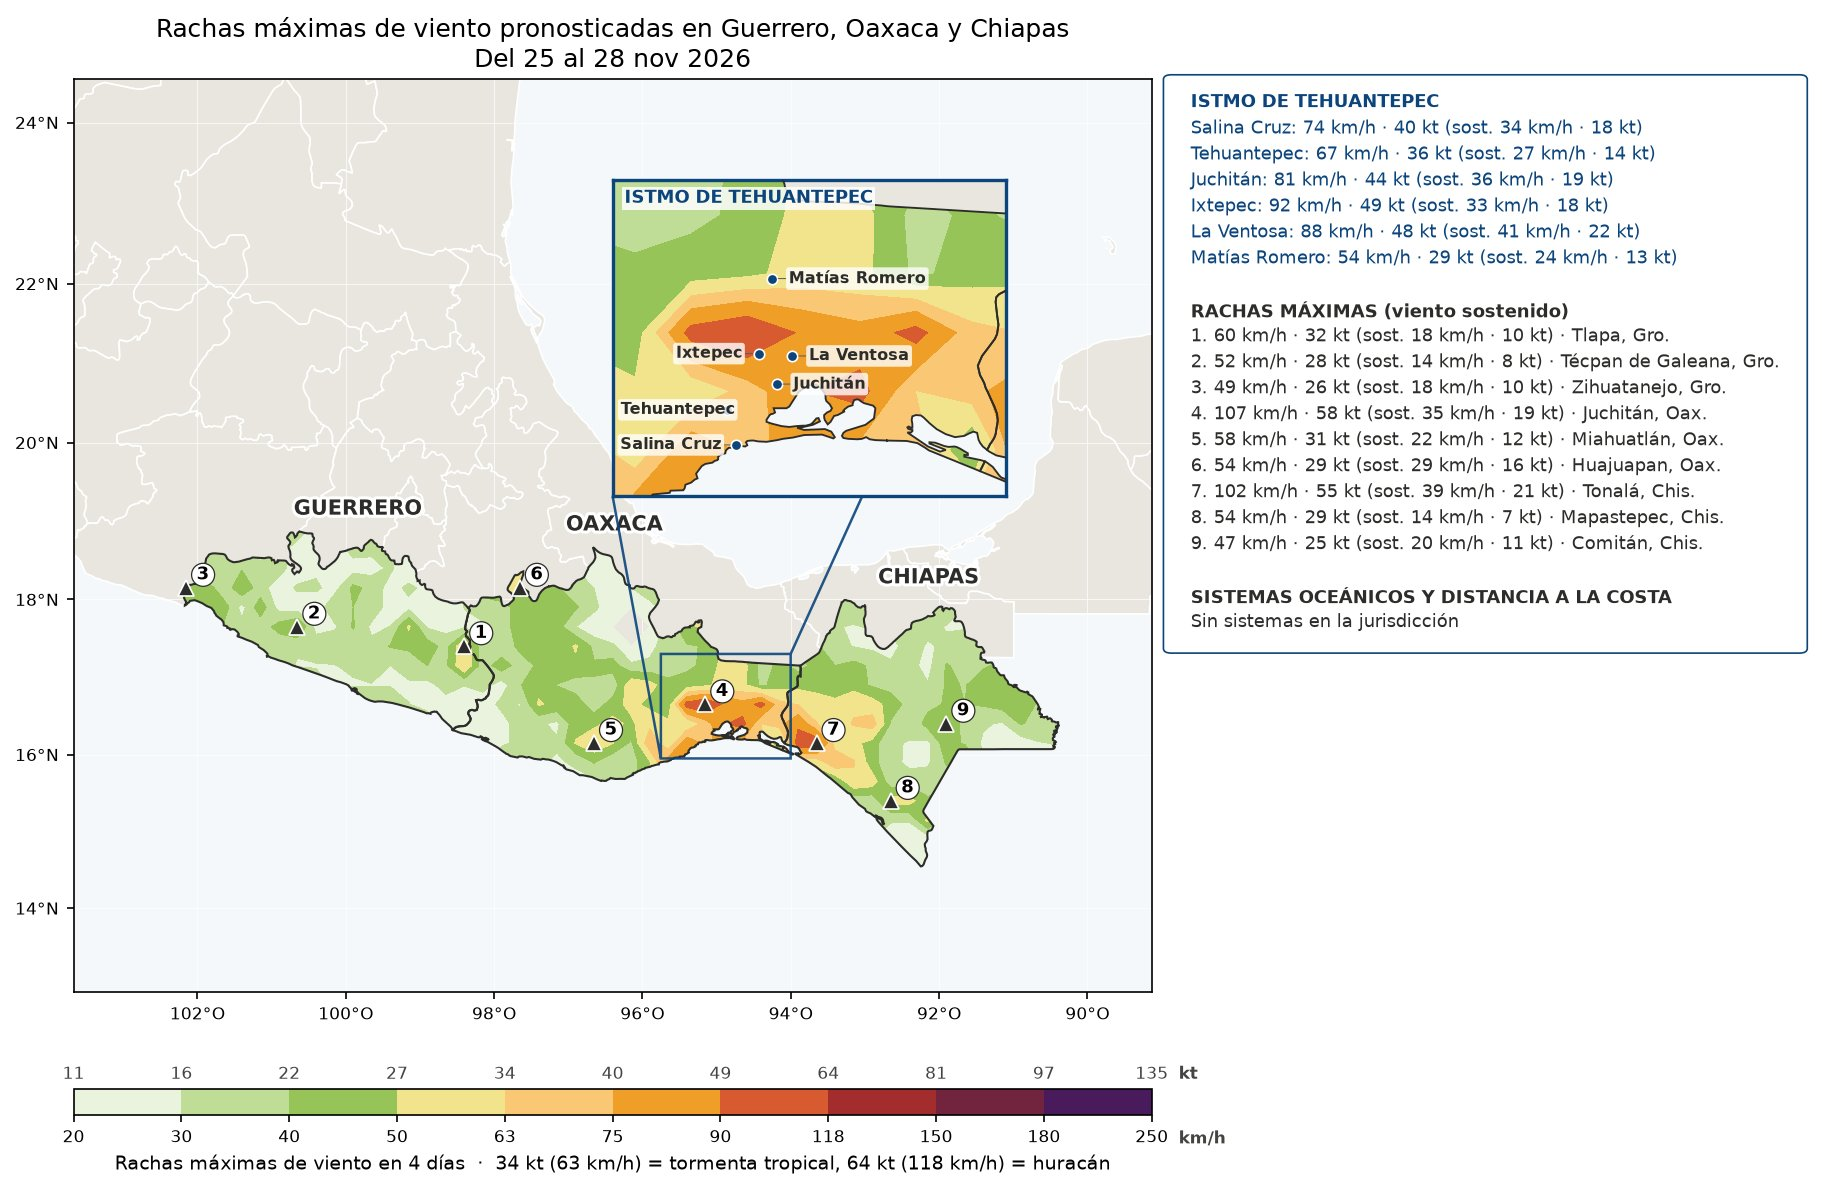
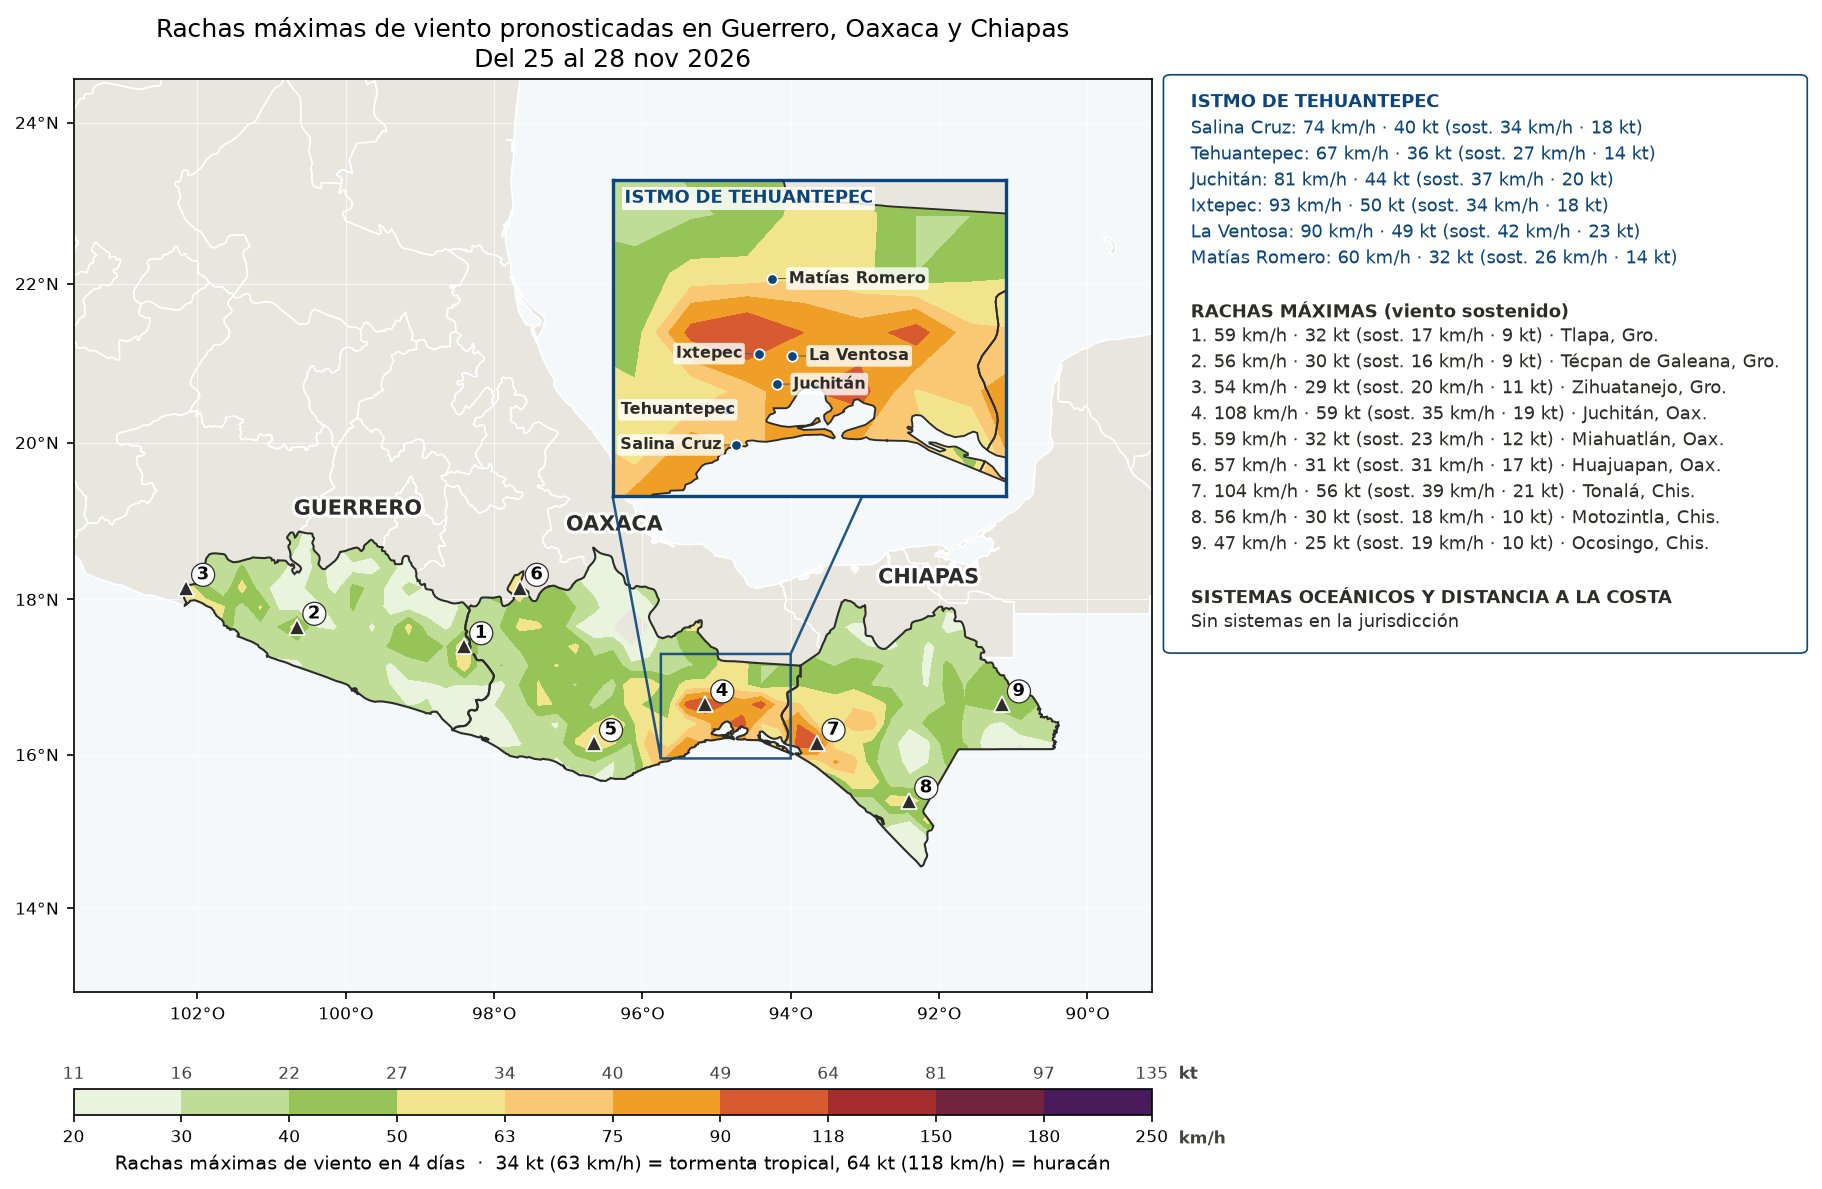
Monitor 25/11 19:30 (mapas nuevos)

diff --git a/index.html b/index.html
@@ -62,7 +62,7 @@ pre{overflow-x:auto;font-size:.75rem;background:var(--bg);padding:10px;border-ra
 <section class="t" id="sec_log"><details><summary>Registro (últimas líneas)</summary><pre id="log"></pre></details></section>
 </main>
 <div id="zoom"><img alt=""></div>
-<script id="datos" type="application/json">{"generado": "2026-11-25T19:17:03.486256", "ultima_revision": "2026-11-25T19:17:03.450730", "decision": "sin cambios", "ultima_imagen": "2026-11-25T16:00:07.399012", "motivo_imagen": "cambios acumulados en 3 h: modelo", "pendientes": [], "intervalo_h": 3, "resumen": {"ciclones": {}, "zonas": []}, "historial": [{"fecha": "2026-11-21T19:20:08.358428", "motivo": "cambios acumulados en 3 h: modelo"}, {"fecha": "2026-11-22T03:50:15.237902", "motivo": "cambios acumulados en 3 h: modelo"}, {"fecha": "2026-11-22T07:10:05.893921", "motivo": "cambios acumulados en 3 h: modelo"}, {"fecha": "2026-11-22T14:10:07.997683", "motivo": "cambios acumulados en 3 h: modelo"}, {"fecha": "2026-11-22T19:10:04.579703", "motivo": "cambios acumulados en 3 h: modelo"}, {"fecha": "2026-11-23T02:30:06.413520", "motivo": "cambios acumulados en 3 h: modelo"}, {"fecha": "2026-11-23T07:22:51.082651", "motivo": "cambios acumulados en 3 h: modelo"}, {"fecha": "2026-11-23T14:20:23.590167", "motivo": "cambios acumulados en 3 h: modelo"}, {"fecha": "2026-11-23T19:30:07.878840", "motivo": "cambios acumulados en 3 h: modelo"}, {"fecha": "2026-11-24T02:00:09.036834", "motivo": "cambios acumulados en 3 h: modelo"}, {"fecha": "2026-11-24T07:40:05.081676", "motivo": "cambios acumulados en 3 h: modelo"}, {"fecha": "2026-11-24T14:30:11.362546", "motivo": "cambios acumulados en 3 h: modelo"}, {"fecha": "2026-11-24T19:30:04.785032", "motivo": "cambios acumulados en 3 h: modelo"}, {"fecha": "2026-11-25T12:50:03.897285", "motivo": "cambios acumulados en 3 h: modelo"}, {"fecha": "2026-11-25T16:00:07.399012", "motivo": "cambios acumulados en 3 h: modelo"}], "imagenes": {"lluvia": {"src": "lluvia.jpg?v=202611251559", "fecha": "2026-11-25T15:59:59.073407"}, "viento": {"src": "viento.jpg?v=202611251600", "fecha": "2026-11-25T16:00:05.242354"}}, "log": [], "umbral_av": 50, "umbral_mal": 110}</script>
+<script id="datos" type="application/json">{"generado": "2026-11-25T19:30:05.386373", "ultima_revision": "2026-11-25T19:30:05.299104", "decision": "imágenes generadas", "ultima_imagen": "2026-11-25T19:30:05.299104", "motivo_imagen": "cambios acumulados en 3 h: modelo", "pendientes": [], "intervalo_h": 3, "resumen": {"ciclones": {}, "zonas": []}, "historial": [{"fecha": "2026-11-22T03:50:15.237902", "motivo": "cambios acumulados en 3 h: modelo"}, {"fecha": "2026-11-22T07:10:05.893921", "motivo": "cambios acumulados en 3 h: modelo"}, {"fecha": "2026-11-22T14:10:07.997683", "motivo": "cambios acumulados en 3 h: modelo"}, {"fecha": "2026-11-22T19:10:04.579703", "motivo": "cambios acumulados en 3 h: modelo"}, {"fecha": "2026-11-23T02:30:06.413520", "motivo": "cambios acumulados en 3 h: modelo"}, {"fecha": "2026-11-23T07:22:51.082651", "motivo": "cambios acumulados en 3 h: modelo"}, {"fecha": "2026-11-23T14:20:23.590167", "motivo": "cambios acumulados en 3 h: modelo"}, {"fecha": "2026-11-23T19:30:07.878840", "motivo": "cambios acumulados en 3 h: modelo"}, {"fecha": "2026-11-24T02:00:09.036834", "motivo": "cambios acumulados en 3 h: modelo"}, {"fecha": "2026-11-24T07:40:05.081676", "motivo": "cambios acumulados en 3 h: modelo"}, {"fecha": "2026-11-24T14:30:11.362546", "motivo": "cambios acumulados en 3 h: modelo"}, {"fecha": "2026-11-24T19:30:04.785032", "motivo": "cambios acumulados en 3 h: modelo"}, {"fecha": "2026-11-25T12:50:03.897285", "motivo": "cambios acumulados en 3 h: modelo"}, {"fecha": "2026-11-25T16:00:07.399012", "motivo": "cambios acumulados en 3 h: modelo"}, {"fecha": "2026-11-25T19:30:05.299104", "motivo": "cambios acumulados en 3 h: modelo"}], "imagenes": {"lluvia": {"src": "lluvia.jpg?v=202611251929", "fecha": "2026-11-25T19:29:59.386868"}, "viento": {"src": "viento.jpg?v=202611251930", "fecha": "2026-11-25T19:30:03.799650"}}, "log": [], "umbral_av": 50, "umbral_mal": 110}</script>
 <script>
 const D = JSON.parse(document.getElementById("datos").textContent);
 const $ = id => document.getElementById(id);
